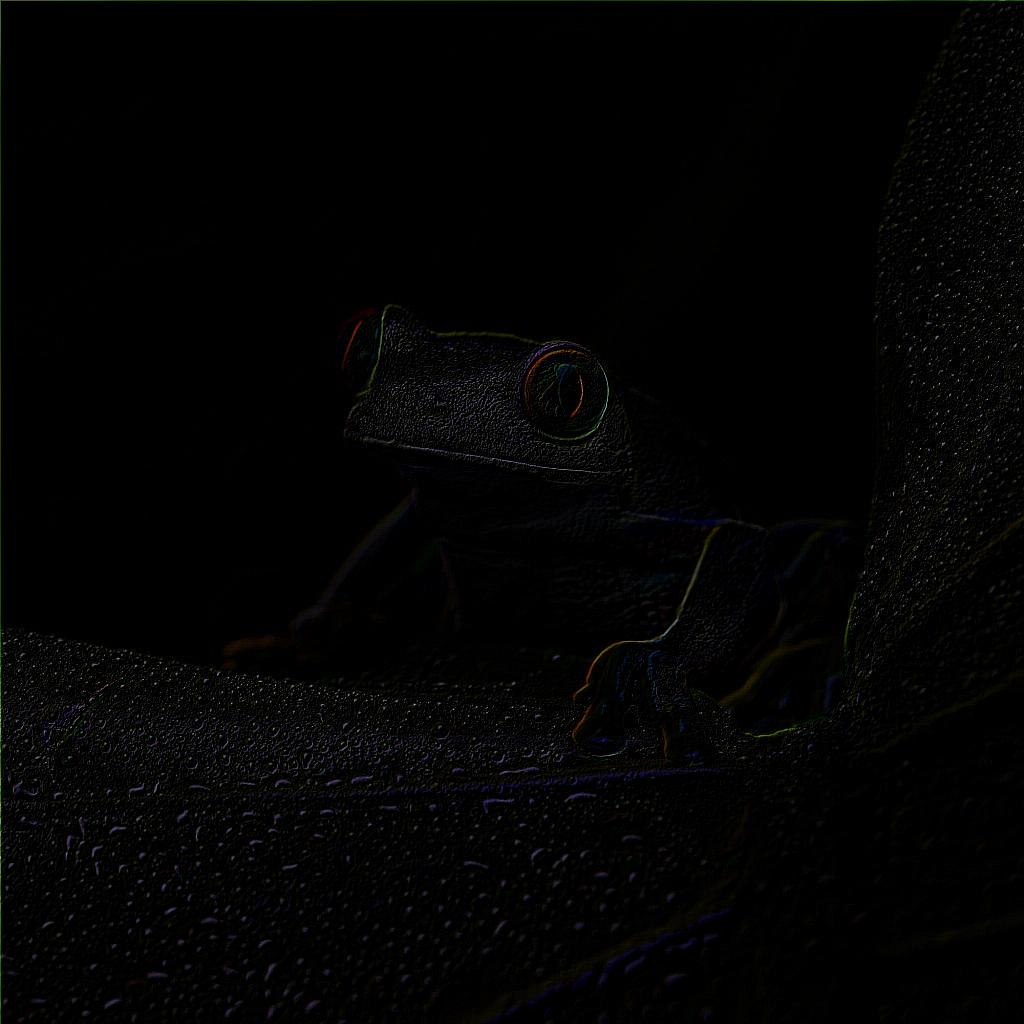
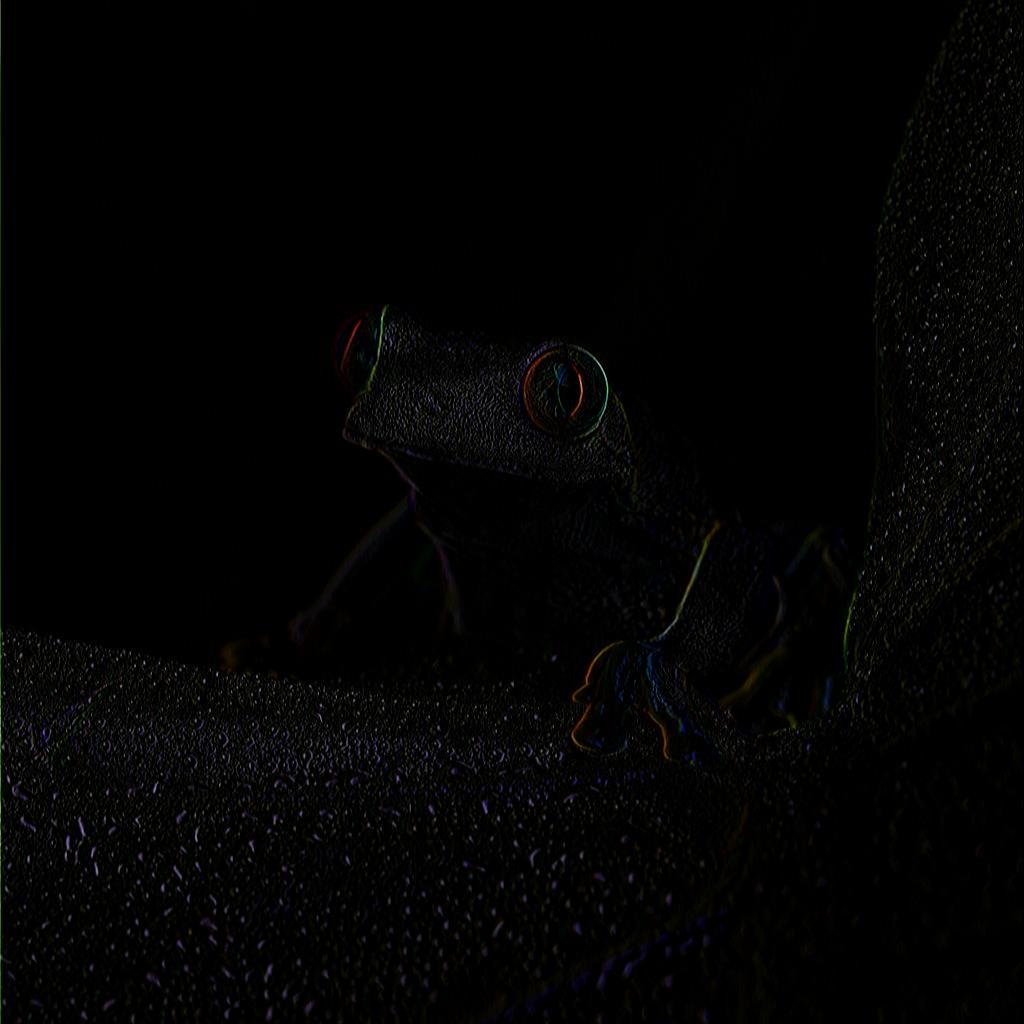
Harris operator added

diff --git a/Feature detection/main.py b/Feature detection/main.py
@@ -1,0 +1,105 @@
+import numpy
+from PIL import Image, ImageDraw
+import conv
+
+
+def harris_response(x, y, ix2, iy2, ixy, window):
+    h = numpy.array([[0, 0],
+                     [0, 0]])
+
+    for dir_x in range(0, window.shape[0]):
+        for dir_y in range(0, window.shape[0]):
+            pos_x = x + dir_x
+            pos_y = y + dir_y
+
+            h += numpy.array([[ix2[pos_x, pos_y], ixy[pos_x, pos_y]],
+                              [ixy[pos_x, pos_y], iy2[pos_x, pos_y]]])
+
+    det = numpy.linalg.det(h)
+    trace = h[0, 0] + h[1, 1]
+    k = 0.06
+    return det - (k * trace)
+
+
+def draw_corners(pixels, threshold, output):
+    draw = ImageDraw.Draw(output)
+    for x in range(0, output.width):
+        for y in range(0, output.height):
+            if pixels[x, y] > threshold:
+                draw.point([x, y], (255, 0, 0))
+
+
+def get_derivatives(image):
+    image_x = Image.new("L", image.size)
+    image_x2 = Image.new("L", image.size)
+    image_y = Image.new("L", image.size)
+    image_y2 = Image.new("L", image.size)
+    image_xy = Image.new("L", image.size)
+    image_gray = image.convert("L")
+
+    gaussian = (1.0/256.0) * numpy.array([[1.0, 4.0, 6.0, 4.0, 1.0],
+                                          [4.0, 16.0, 24.0, 16.0, 4.0],
+                                          [6.0, 24.0, 36.0, 24.0, 6.0],
+                                          [4.0, 16.0, 24.0, 16.0, 4.0],
+                                          [1.0, 4.0, 6.0, 4.0, 1.0]])
+
+    sobel_horizontal = (1/8) * numpy.array([[-1, 0, 1],
+                                            [-2, 0, 2],
+                                            [-1, 0, 1]])
+
+    sobel_vertical = (1/8) * numpy.array([[1, 2, 1],
+                                          [0, 0, 0],
+                                          [-1, -2, -1]])
+
+    conv.convolve(image_gray, image_x, sobel_horizontal)
+    conv.convolve(image_gray, image_y, sobel_vertical)
+
+    ix_pixels = numpy.asarray(image_x)
+    iy_pixels = numpy.asarray(image_y)
+    ix2_pixels = ix_pixels * ix_pixels
+    iy2_pixels = iy_pixels * iy_pixels
+    ixy_pixels = ix_pixels * iy_pixels
+
+    ix2_intermediate = Image.fromarray(ix2_pixels)
+    iy2_intermediate = Image.fromarray(iy2_pixels)
+    ixy_intermediate = Image.fromarray(ixy_pixels)
+
+    conv.convolve(ix2_intermediate, image_x2, gaussian)
+    conv.convolve(iy2_intermediate, image_y2, gaussian)
+    conv.convolve(ixy_intermediate, image_xy, gaussian)
+
+    ix2 = numpy.asarray(image_x2).transpose()
+    iy2 = numpy.asarray(image_y2).transpose()
+    ixy = numpy.asarray(image_xy).transpose()
+
+    return ix2, iy2, ixy
+
+
+def find_corners(image):
+    ix2, iy2, ixy = get_derivatives(image)
+
+    window = numpy.zeros((3, 3))
+    window_half = int(window.shape[0] / 2)
+    harris_corners = numpy.zeros((image.width, image.height))
+    for x in range(window_half, image.width - window_half - 1):
+        for y in range(window_half, image.height - window_half - 1):
+            harris_corners[x, y] = harris_response(x, y, ix2, iy2, ixy, window)
+
+    return harris_corners
+
+
+# oneliner?
+def find_corners2(image):
+    ix2, iy2, ixy = get_derivatives(image)
+    return ix2 * iy2 - ixy * ixy - 0.06 * numpy.power((ix2 + iy2), 2)
+
+
+def main():
+    image = Image.open('chess.png')
+    harris_corners = find_corners(image)
+    draw_corners(harris_corners, 0, image)
+    image.show()
+    image.save("chess_corners.png")
+
+
+main()

diff --git a/Feature detection/conv.py b/Feature detection/conv.py
@@ -1,0 +1,32 @@
+from PIL import ImageDraw
+
+
+def get_kernel_bounds(x, y, kernel_width, kernel_height, image_width, image_height):
+    x_min = max(0, (kernel_width // 2) - x)
+    x_max = min(kernel_width, (image_width - x) + 1)
+    y_min = max(0, (kernel_height // 2) - y)
+    y_max = min(kernel_height, (image_height - y) + 1)
+    return x_min, x_max, y_min, y_max
+
+
+def calculate_pixel(kernel, pixels, image_width, image_height, x, y):
+    kernel_height_half = int(kernel.shape[0]/2)
+    kernel_width_half = int(kernel.shape[1]/2)
+    x_min, x_max, y_min, y_max = get_kernel_bounds(x, y, kernel.shape[1], kernel.shape[0], image_width, image_height)
+    color_sum = 0
+
+    for kernel_x in range(x_min, x_max):
+        for kernel_y in range(y_min, y_max):
+            pos_x = x + kernel_x - kernel_width_half
+            pos_y = y + kernel_y - kernel_height_half
+            color_sum += pixels[pos_x, pos_y] * kernel[kernel_y, kernel_x]
+    return color_sum
+
+
+def convolve(image, output, kernel):
+    draw = ImageDraw.Draw(output)
+    pixels = image.load()
+    for x in range(0, image.width):
+        for y in range(0, image.height):
+            color_sum = calculate_pixel(kernel, pixels, image.width, image.height, x, y)
+            draw.point((x, y), int(color_sum))

diff --git a/Separable filters/main.py b/Separable filters/main.py
@@ -63,9 +63,9 @@ def main():
 
     # Use the kernels found in kernel.py
 
-    convolve(image, output, Kernel.emboss)
+    # convolve(image, output, Kernel.emboss)
     # convolve_seperable(image, output, Kernel.box_blur_5_1d)
-    # convolve_seperable_2(image, output, Kernel.sobel_1d_horizontal, Kernel.sobel_1d_vertical)
+    convolve_seperable_2(image, output, Kernel.sobel_1d_horizontal, Kernel.sobel_1d_vertical)
 
     output.show()
     output.save("test.jpg")
